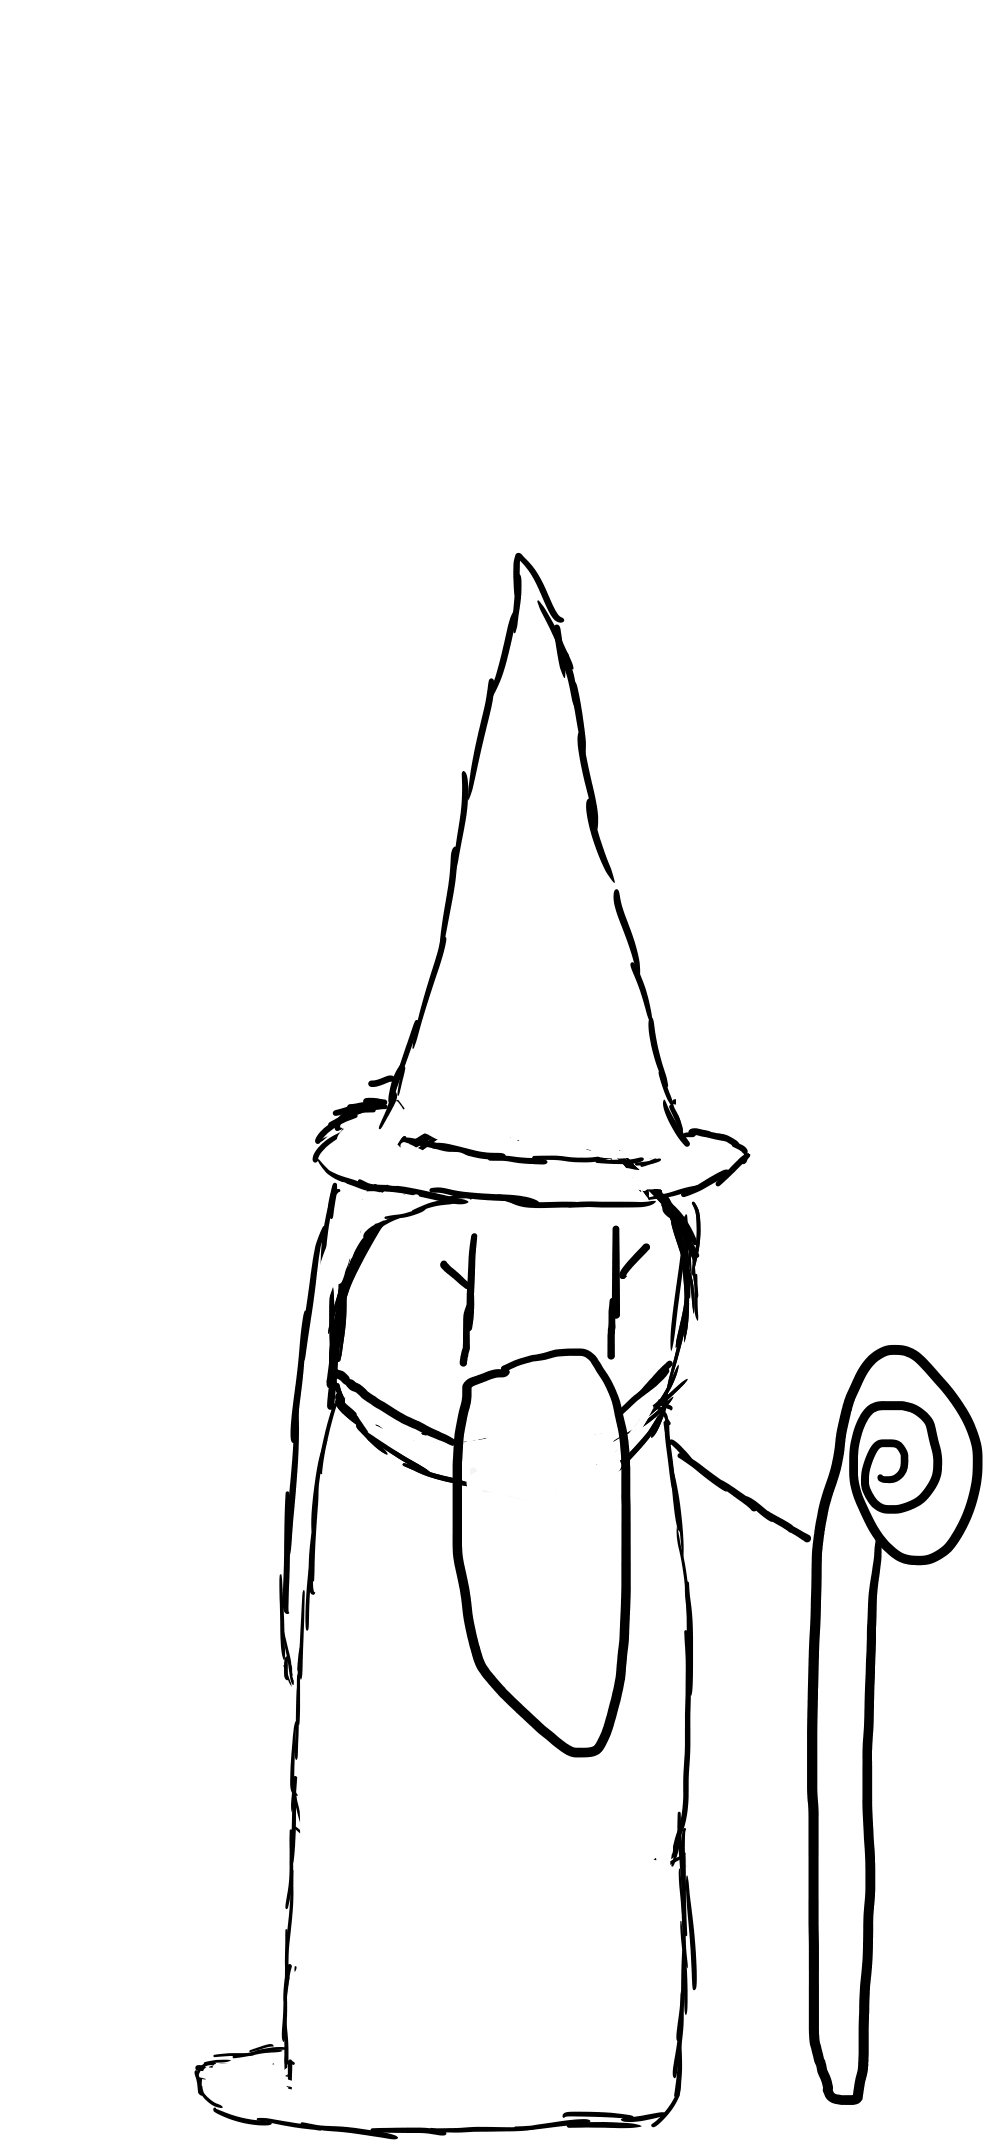
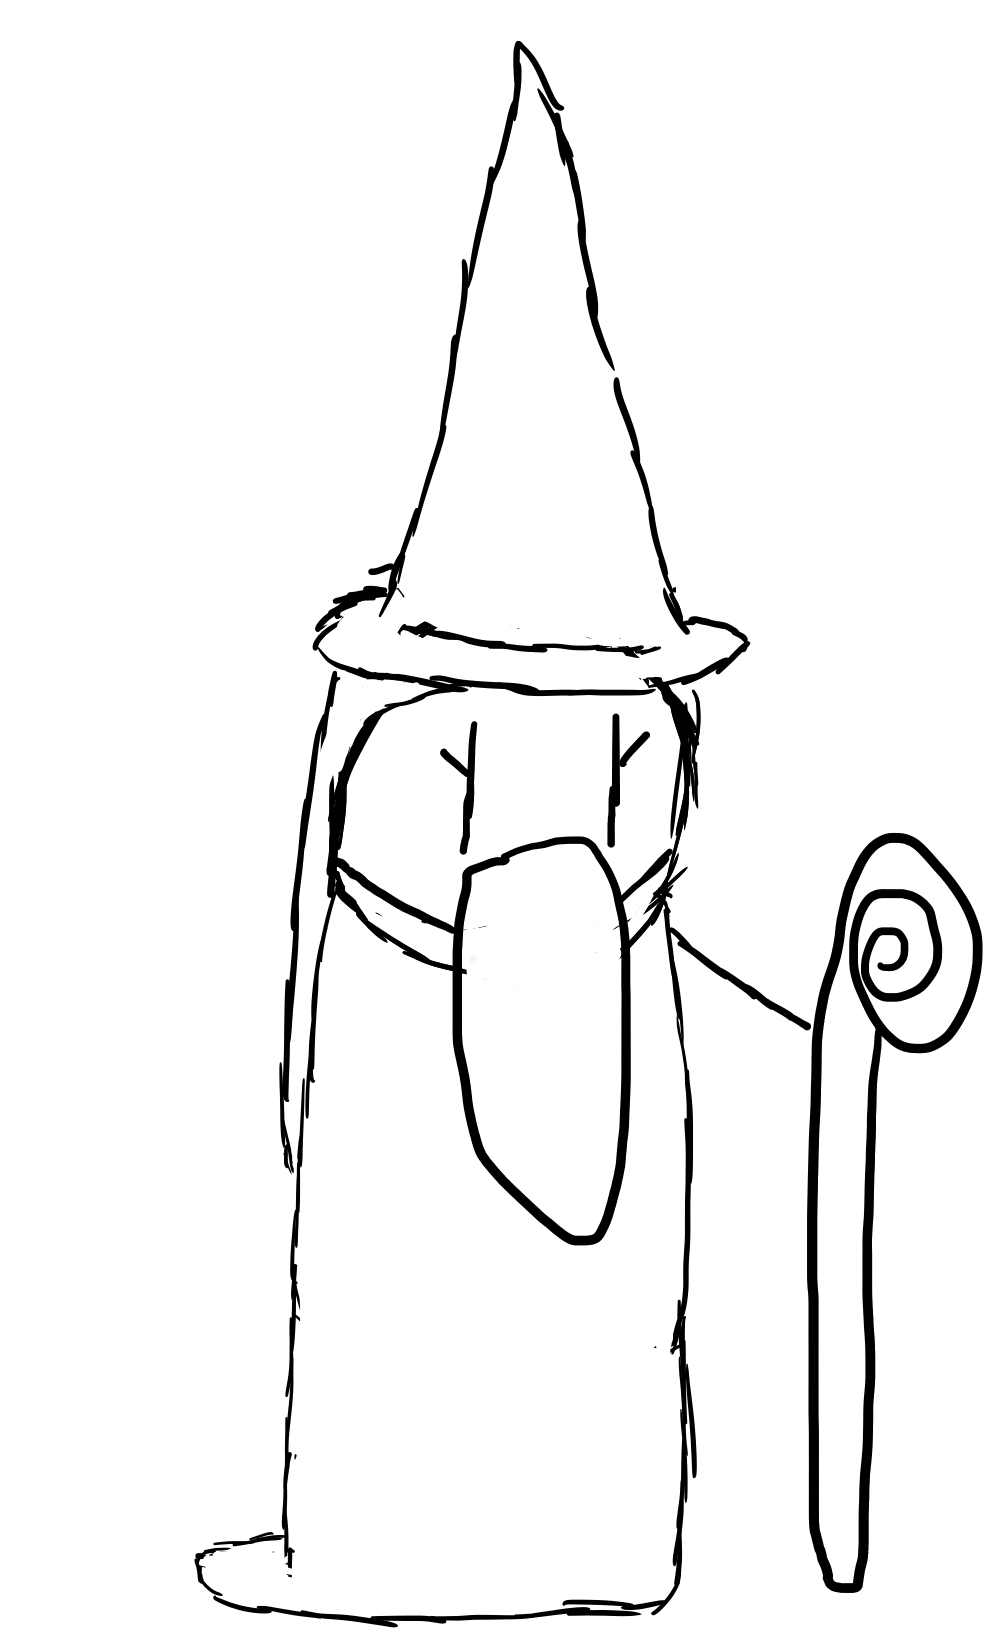
End of Spell 4, 18/6/26

diff --git a/games/BlandbournBout/MJS/BbBlobby.js b/games/BlandbournBout/MJS/BbBlobby.js
@@ -15,7 +15,7 @@ let availableGames = [];
 // Declare image variables
 let imgPlaceholder, imgSpartan, imgWizard, imgPaladin, imgBarbarian, imgCleric, classImages;
 // Declare UI variables
-let loginButton, getoutButton, createGameButton, joinGameButton, gameCodeInput, refreshButton;
+let loginButton, getoutButton, createGameButton, joinGameButton, gameCodeInput;
 let gameActionButton, usernameInput;
 // Declare other variables
 let statusMessage, isAuthenticated, isAdmin;
@@ -55,9 +55,8 @@ function setup() {
 }
 
 function preload() { //Preload everyting for further purposes.
-    imgPlaceholder = loadImage('../other/images.jpg'); //placeholder
-    imgSpartan = loadImage('../other/Kratos_PS4.png'); // all property of Kratos go to Sony and Playstation. Also using Kratos as the spartan just seems funny to me.
-    imgWizard = loadImage('../other/BbBWiz.png');
+    imgPlaceholder = loadImage('../other/images.jpg'); 
+    imgSpartan = loadImage('../other/BbBSpar.png'); // Was origionally Kratos from GOW
     imgPaladin = loadImage('../other/BbBPal.png');
     imgBarbarian = loadImage('../other/BbBBarb.png');
     imgCleric = loadImage('../other/BbBCler.png');
@@ -116,7 +115,6 @@ function startGameListener(gameId) {
         if (createGameButton) createGameButton.hide();
         if (joinGameButton) joinGameButton.hide();
         if (gameCodeInput) gameCodeInput.hide();
-        if (refreshButton) refreshButton.hide();
 
         if (auth.currentUser) {
             userID = auth.currentUser.uid;
@@ -197,7 +195,6 @@ function updateUIForAuth(loggedIn) {
         joinGameButton.show();
         usernameInput.show();
         gameCodeInput.show();
-        refreshButton.show();
 
         // Show game action button if in a game
         if (gameID) {
@@ -215,7 +212,6 @@ function updateUIForAuth(loggedIn) {
         joinGameButton.hide();
         usernameInput.hide();
         gameCodeInput.hide();
-        refreshButton.hide();
         gameActionButton.hide();
     }
 }
@@ -251,14 +247,13 @@ function setupUI() {
     usernameInput.hide();
 
     // Game creation UI
-    createGameButton = createButton('Create New Game');
+    createGameButton = createButton('Create Game');
     createGameButton.position(20, 110);
     createGameButton.mousePressed(createNewGame);
     createGameButton.hide();
     // Prevent creating/joining while waiting for opponent
     if (joinGameButton) joinGameButton.hide();
     if (gameCodeInput) gameCodeInput.hide();
-    if (refreshButton) refreshButton.hide();
     if (usernameInput) usernameInput.hide();
 
     joinGameButton = createButton('Join Game');
@@ -270,11 +265,6 @@ function setupUI() {
     gameCodeInput.position(20, 150);
     gameCodeInput.attribute('placeholder', 'Enter Game Code');
     gameCodeInput.hide();
-
-    refreshButton = createButton('Refresh Games');
-    refreshButton.position(280, 70);
-    refreshButton.mousePressed(refreshAvailableGames);
-    refreshButton.hide();
 
     // Single Leave & Change Class button
     gameActionButton = createButton('Leave');
@@ -514,7 +504,6 @@ async function joinGame() {
         if (createGameButton) createGameButton.hide();
         if (joinGameButton) joinGameButton.hide();
         if (gameCodeInput) gameCodeInput.hide();
-        if (refreshButton) refreshButton.hide();
         if (usernameInput) usernameInput.hide();
 
         // Show game action button
@@ -636,7 +625,6 @@ function clearGameState() {
     gameActionButton.hide();
     createGameButton.show();
     joinGameButton.show();
-    refreshButton.show();
 }
 
 async function changeClass() {//set class
@@ -761,14 +749,12 @@ function drawLoginPrompt() {
 }
 
 function drawLobby() {
-    // Draw current game info if in a game
     if (gameID) {
         drawGameLobby();
     } else {
+        drawLeaderboard();
         drawAvailableGames();
     }
-
-    drawLeaderboard();
 
     // Draw userID info
     fill(0);
@@ -900,10 +886,9 @@ function drawLeaderboard() { //Leaderbored
     textStyle(NORMAL);
     textSize(14);
     fill(40);
-    text(`User: ${userID}`, width / 2.15, boardY + 52)
-    text(`Wins: ${userTotalWins}`, width / 2.15, boardY + 74);
-    text(`Highest Damage: ${userHighestDamage}`, width / 2.15, boardY + 96);
-    text(`Total Damage: ${userTotalDamage}`, width / 2.15, boardY + 118);
+    text(`User`, width / 2.75, boardY + 52)
+    text(`Wins`, width / 2.05, boardY + 52);
+    text(`Total Damage`, width / 1.75, boardY + 52);
 }
 
 // mouseClicked handles both Ready Up button AND Join Game buttons

diff --git a/games/BlandbournBout/MJS/BbB.js b/games/BlandbournBout/MJS/BbB.js
@@ -144,8 +144,8 @@ function preload() {
         loadImage('../other/battleback9.png'),
         loadImage('../other/battleback10.png')
     ];
-    imgSpartan = loadImage('../other/Kratos_PS4.png'); // all property of Kratos go to Sony and Playstation.
-    imgWizard = loadImage('../other/BbBWiz.png'); // Also using Kratos as the spartan just seems funny to me.
+    imgSpartan = loadImage('../other/BbBSpar.png'); // Was origionally Kratos from GOW
+    imgWizard = loadImage('../other/BbBWiz.png'); 
     imgPaladin = loadImage('../other/BbBPal.png');
     imgBarbarian = loadImage('../other/BbBBarb.png');
     imgCleric = loadImage('../other/BbBCler.png');
@@ -1039,7 +1039,7 @@ function drawBattleLog() {
 
     fill(230, 200, 143);
     textSize(14);
-    text("BATTLE LOG", logX + 10, logY + 22);
+    text("BATTLE LOG", logX + 50, logY + 22);
 
     textSize(11);
     for (let i = 0; i < Math.min(8, battleLog.length); i++) {
@@ -1050,7 +1050,7 @@ function drawBattleLog() {
         else fill(180);
         let displayMsg = entry.message;
         if (displayMsg.length > 35) displayMsg = displayMsg.substring(0, 32) + "...";
-        text(displayMsg, logX + 10, logY + 45 + (i * 16));
+        text(displayMsg, logX + 35, logY + 45 + (i * 16));
     }
 }
 
@@ -1066,7 +1066,7 @@ function drawCooldownInfo() {
 
     fill(230, 200, 143);
     textSize(14);
-    text("COOLDOWNS", infoX + 10, infoY + 22);
+    text("COOLDOWNS", infoX + 150, infoY + 22);
 
     fill(200);
     textSize(13);
@@ -1075,15 +1075,15 @@ function drawCooldownInfo() {
     const healStatus = playerCooldowns.heal > 0 ? `${playerCooldowns.heal} turns` : "READY";
     const specialStatus = playerCooldowns.special > 0 ? `${playerCooldowns.special} turns` : "READY";
 
-    text(`Neutral: ${neutralStatus}`, infoX + 15, infoY + 55);
-    text(`Heavy: ${heavyStatus}`, infoX + 15, infoY + 80);
-    text(`Heal: ${healStatus}`, infoX + 15, infoY + 105);
-    text(`Special: ${specialStatus}`, infoX + 15, infoY + 130);
+    text(`Neutral: ${neutralStatus}`, infoX + 150, infoY + 55);
+    text(`Heavy: ${heavyStatus}`, infoX + 150, infoY + 80);
+    text(`Heal: ${healStatus}`, infoX + 150, infoY + 105);
+    text(`Special: ${specialStatus}`, infoX + 150, infoY + 130);
 
     fill(255, 200, 100);
     textSize(11);
     const lastMoveDisplay = lastMove ? `${lastMove} (${lastMoveBy === userID ? 'you' : 'opponent'})` : 'none';
-    text(`Last move: ${lastMoveDisplay}`, infoX + 15, infoY + 160);
+    text(`Last move: ${lastMoveDisplay}`, infoX + 150, infoY + 160);
 }
 
 // Draws the player's total damage dealt panel

diff --git a/games/BlandbournBout/HTML/BbBended.html b/games/BlandbournBout/HTML/BbBended.html
@@ -20,22 +20,6 @@
       <button onclick="location.href='/startscreen.html'">Back to Start Screen</button>
     </div>
 
-    <script>
-      const urlParams = new URLSearchParams(window.location.search);
-      const score = urlParams.get('score') || 0;  //PLACEHOLDER DO NOT INTERACT YET
-      document.getElementById('finalScore').textContent = `Score: ${score}`;
-      let highScore = localStorage.getItem('highScore') || 0;
-      if (parseInt(score) > parseInt(highScore)) {
-        highScore = score;
-        localStorage.setItem('highScore', highScore);
-        document.getElementById('highScore').textContent = `New High Score: ${highScore}`;
-      } else {
-        document.getElementById('highScore').textContent = `High Score: ${highScore}`;
-      }
-      document.addEventListener('click', function () {
-        document.getElementById('end-audio').play();
-      }, { once: true });
-    </script>
   </header>
 </body>
 

diff --git a/games/BlandbournBout/css/style.css b/games/BlandbournBout/css/style.css
@@ -30,7 +30,7 @@ body {
     background-color: #bdddff;
     color: #fff;
     transition: background-color 0.3s;
-    width: 220px; /* Set a fixed width */
+    width: 130px; /* Set a fixed width */
     text-align: center;
   }
   

diff --git a/games/BlandbournBout/css/otherstyle.css b/games/BlandbournBout/css/otherstyle.css
@@ -24,7 +24,7 @@ canvas {
     z-index: 1;
 }
 
-/* vintage screen effects — matches the screenshot gritty look */
+/* vintage screen effects */
 .screen-vignette {
     position: fixed;
     top: 0;
